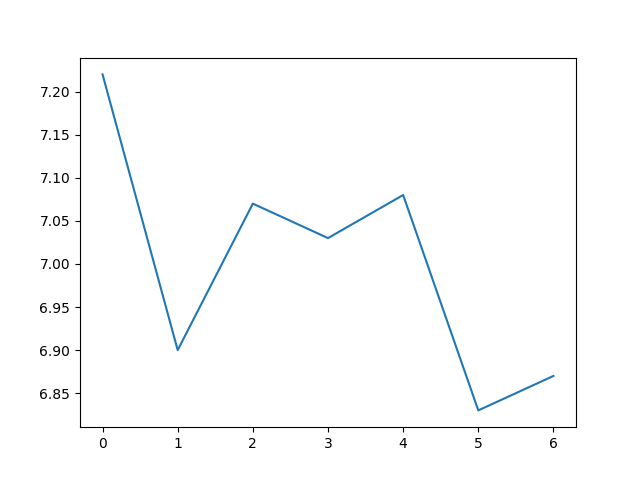
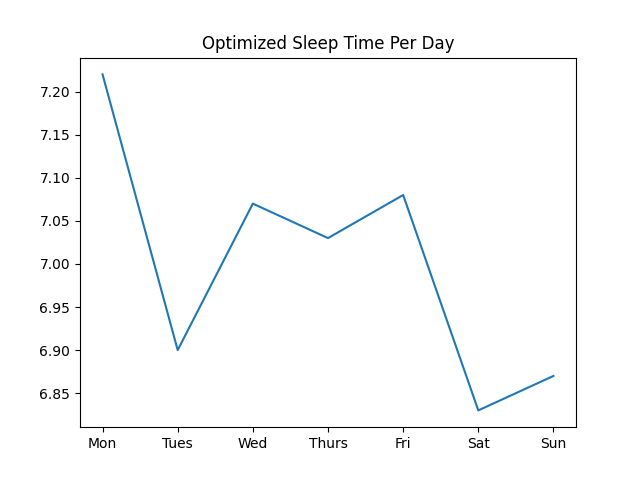
updated readme

diff --git a/test_main.py b/test_main.py
@@ -6,5 +6,6 @@ test = Optimize()
 res = np.array(test.optimize())
 labels = ['Mon', 'Tues', 'Wed', 'Thurs', 'Fri', 'Sat', 'Sun']
 
-plt.plot(res)
+plt.plot(labels,res)
+plt.title('Optimized Sleep Time Per Day')
 plt.savefig('./output.png')

diff --git a/README.md b/README.md
@@ -1,7 +1,7 @@
 # Project 3: Optimizing Sleep
 College students are constantly sleep-deprived. Deadlines after deadlines, students compromise on sleep. For this project, I optimize my weekly sleep time using linear programming.
 
-## Data Collection
+# Data Collection
 Based on data obtained from the 'Health' app in my phone, I collected the [average sleep](./sleep_data.xlsx) in the past four months.
 The scope has been decided for one semester as other semesters have different schedules and it would be hard to average sleep time.
 
@@ -14,13 +14,33 @@ Average Sleep time | 7:13 | 6:54| 7:04 | 7:02 | 7:05| 6:50 | 7:02
 
 Really, not that interesting. This is because there were factors that influenced the regularity of sleep this semester that did not allow for an interesting average to tell a story about the sleep cycle. 
 
-## Formulation of the LP
+# Formulation of the LP
+
+Objective Function:
+
 The objective function is to maximize weekly sleep time based on the decision variables are the sleep time of Monday through Sunday. 
 ```(python)
 Max z = x1 + x2 + x3 + x4 + x5 + x6 + x7
 ```
-The cost functions are derived from the data collected.
-```(python)
-x1 >= 7
 
-```
+Constraints:
+1. The first part of the constraints are derived from the data collected: we cannot sleep more than the data's average per day, as it would have an effect on the amount of work getting done throughout the day in lieu of assignments.
+
+2. Next, we cannot sleep more than 20 hours per weekend because catching up on sleep is not a healthy sleep habit and we prefer to sleep evenly throughout the week.
+3. Finally, the total hours of sleep in a week must be less than 49 hours per week (Oversleeping is not what we want.)
+
+# Results
+
+The optimized results are shown below. 
+
+Time in Decimals | Mon | Tues | Wed | Thurs | Fri | Sat | Sun
+-- | -- | -- | -- | -- | -- | -- | --
+Optimized Sleep Time | 7.22| 6.9 | 7.07 | 7.03 | 7.08 | 6.83 | 6.87
+
+This is visualized below.
+![Result Graph](output.png)
+
+I can sleep the most on Mondays. I can sleep the least on Saturdays.
+
+# Assumptions and Limitations
+The main assumption of the data is that the time collected is correct. However, the way that the app data collects the wake up time is when the alarm goes off. Many times, I snooze and go back to sleep. Therefore, the collection may not reflect the actual duration of my sleep.
